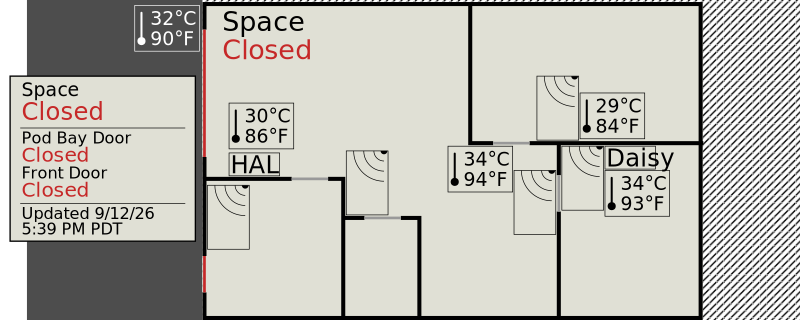
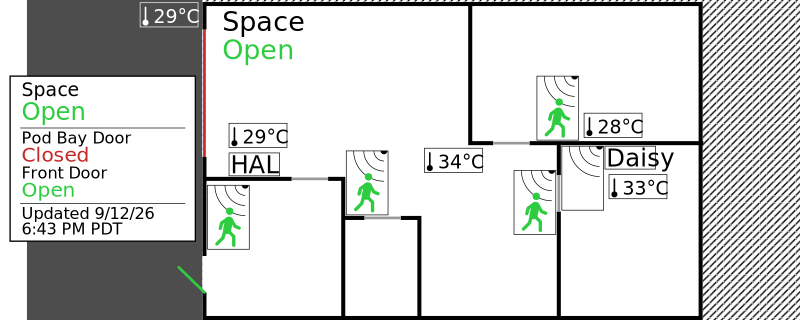
Refine synoptic status and temperature layout

diff --git a/src/maglab_events_bot/services/synoptic.py b/src/maglab_events_bot/services/synoptic.py
@@ -34,7 +34,7 @@ DISCORD_VIEW_BOX = "-40 72 1187.5 475"
 TECH_BAD_AFTER_MINUTES = 15
 MOTION_ACTIVE_MINUTES = 20
 MAGLAB_TIMEZONE = ZoneInfo("America/Los_Angeles")
-OPEN_COLOR = "#006400"
+OPEN_COLOR = "#2ecc40"
 CLOSED_COLOR = "#c62828"
 UNKNOWN_COLOR = "#555555"
 
@@ -144,14 +144,12 @@ def _active_binary(
     return coerce_grafana_bool(sample.value) is True
 
 
-def _temperature_text(sample: GrafanaSample | None) -> Tuple[str, str]:
+def _temperature_text(sample: GrafanaSample | None) -> str:
     if sample is None or not isinstance(sample.value, (int, float)):
-        return "XX°C", "XX°F"
+        return "XX°C"
     celsius = sample.value / 1000
-    fahrenheit = (celsius * 9 / 5) + 32
     rounded_celsius = math.floor(celsius + 0.5)
-    rounded_fahrenheit = math.floor(fahrenheit + 0.5)
-    return f"{rounded_celsius}°C", f"{rounded_fahrenheit}°F"
+    return f"{rounded_celsius}°C"
 
 
 def _space_state(
@@ -244,22 +242,17 @@ def _render_temperatures(
     for field, prefix in TEMPERATURE_SENSORS.items():
         temperature_id = f"{prefix}-Temp_Temperature"
         enclosure_id = f"{prefix}-Temp_Enclosure"
-        celsius_text, fahrenheit_text = (
-            ("XX°C", "XX°F") if tech_bad else _temperature_text(samples.get(field))
+        _set_text(
+            elements,
+            temperature_id,
+            "XX°C" if tech_bad else _temperature_text(samples.get(field)),
         )
-        _set_text(elements, temperature_id, celsius_text)
         temperature = elements[temperature_id]
         _set_style(elements, temperature_id, "font-size", "28px")
         text_child = next(iter(temperature), None)
         if text_child is not None:
-            text_child.set("x", "23")
-            text_child.set("y", "29")
-        fahrenheit_line = ElementTree.SubElement(
-            temperature,
-            f"{{{SVG_NAMESPACE}}}tspan",
-            {"x": "23", "y": "59"},
-        )
-        fahrenheit_line.text = fahrenheit_text
+            text_child.set("x", "20")
+            text_child.set("y", "30")
 
         # The upstream SVG uses a Unicode thermometer emoji, which CairoSVG's
         # server font renders as a missing-glyph square. Draw a portable vector
@@ -276,23 +269,23 @@ def _render_temperatures(
             icon,
             f"{{{SVG_NAMESPACE}}}path",
             {
-                "d": "M 10,11 V 47",
+                "d": "M 8,7 V 25",
                 "fill": "none",
                 "stroke": icon_color,
-                "stroke-width": "3",
+                "stroke-width": "2.4",
                 "stroke-linecap": "round",
             },
         )
         ElementTree.SubElement(
             icon,
             f"{{{SVG_NAMESPACE}}}circle",
-            {"cx": "10", "cy": "53", "r": "6", "fill": icon_color},
+            {"cx": "8", "cy": "29.5", "r": "4.5", "fill": icon_color},
         )
 
-        elements[enclosure_id].set("width", "96")
-        elements[enclosure_id].set("height", "68")
-        elements[f"{prefix}-Temp_Bk-Slash"].set("d", "m 0,0 96,68")
-        elements[f"{prefix}-Temp_Fw-Slash"].set("d", "m 96,0 -96,68")
+        elements[enclosure_id].set("width", "86")
+        elements[enclosure_id].set("height", "36")
+        elements[f"{prefix}-Temp_Bk-Slash"].set("d", "m 0,0 86,36")
+        elements[f"{prefix}-Temp_Fw-Slash"].set("d", "m 86,0 -86,36")
         _set_visibility(elements, f"{prefix}-Temp_Fail", tech_bad)
         healthy_color = "#ffffff" if prefix == "Outdoor" else "#000000"
         _set_style(
@@ -302,14 +295,14 @@ def _render_temperatures(
             "#ff0000" if tech_bad else healthy_color,
         )
 
-    # The upstream positions assume short Celsius-only labels. Move the wider
-    # dual-unit enclosures into clear areas of their corresponding rooms.
+    # Stay in each sensor's upstream area while retaining at least eight SVG
+    # units of clearance from nearby walls, labels, and motion enclosures.
     temperature_positions = {
-        "Outdoor-Temp": "translate(160,80)",
-        "Bay-Temp": "translate(300,225)",
-        "ConfRm-Temp": "translate(821,210)",
-        "ShopB-Temp": "translate(625,289)",
-        "ElecRm-Temp": "translate(858,325)",
+        "Outdoor-Temp": "translate(168,76)",
+        "Bay-Temp": "translate(300,255)",
+        "ConfRm-Temp": "translate(827,240)",
+        "ShopB-Temp": "translate(590,292)",
+        "ElecRm-Temp": "translate(864,331)",
     }
     for element_id, transform in temperature_positions.items():
         elements[element_id].set("transform", transform)

diff --git a/tests/services/test_synoptic_renderer.py b/tests/services/test_synoptic_renderer.py
@@ -44,11 +44,11 @@ def test_render_applies_open_door_motion_and_temperature_conditions():
     assert "fill:#ffffff" in elements["Space-Floor"].get("style", "")
     assert elements["Front-Door_Open"].get("visibility") == "visible"
     assert elements["Front-Door_Closed"].get("visibility") == "hidden"
-    assert "stroke:#006400" in elements["Front-Door_Open"].get("style", "")
+    assert "stroke:#2ecc40" in elements["Front-Door_Open"].get("style", "")
     assert "stroke:#c62828" in elements["Front-Door_Closed"].get("style", "")
     assert elements["Office-Motion_Motion"].get("visibility") == "visible"
-    assert _text(elements["Bay-Temp_Temperature"]).splitlines() == ["30°C", "86°F"]
-    assert _text(elements["Outdoor-Temp_Temperature"]).splitlines() == ["35°C", "95°F"]
+    assert _text(elements["Bay-Temp_Temperature"]) == "30°C"
+    assert _text(elements["Outdoor-Temp_Temperature"]) == "35°C"
     assert elements["Bay-Temp_Symbol"].get("visibility") == "hidden"
     assert elements["Bay-Temp_Vector-Symbol"] is not None
     summary = _text(elements["Discord-Safe-Area-Summary"])
@@ -77,5 +77,5 @@ def test_render_marks_entire_view_failed_when_latest_sample_is_stale():
     assert elements["Front-Door_Fail"].get("visibility") == "visible"
     assert elements["Office-Motion_Fail"].get("visibility") == "visible"
     assert elements["HAL_Fail"].get("visibility") == "visible"
-    assert _text(elements["Bay-Temp_Temperature"]).splitlines() == ["XX°C", "XX°F"]
+    assert _text(elements["Bay-Temp_Temperature"]) == "XX°C"
     assert "Unknown" in _text(elements["Discord-Safe-Area-Summary"])

diff --git a/docs/synoptic.md b/docs/synoptic.md
@@ -30,8 +30,8 @@ the display conditions below.
 | Privacy | `Privacy_Switch = 1` masks door and motion activity |
 | Doors | Open when the binary field is `1`; closed when `0` |
 | Motion | Active when the binary field is `1` and its sample is no more than 20 minutes old |
-| Temperatures | Grafana millidegrees Celsius divided by 1000, converted to Fahrenheit, and rounded to whole degrees |
-| Failure rendering | Unknown status, red failure marks, and `XX°C / XX°F` temperatures |
+| Temperatures | Grafana millidegrees Celsius divided by 1000 and rounded to whole degrees |
+| Failure rendering | Unknown status, red failure marks, and `XX°C` temperatures |
 
 The bot reads all required fields with one Grafana datasource-proxy request. The SVG geometry is
 stored locally in `data/static/maglab_synoptic_template.svg`, and Python applies the same
